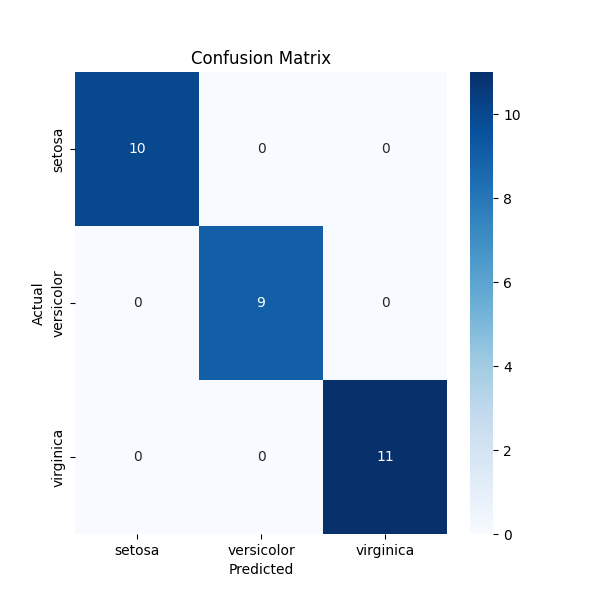
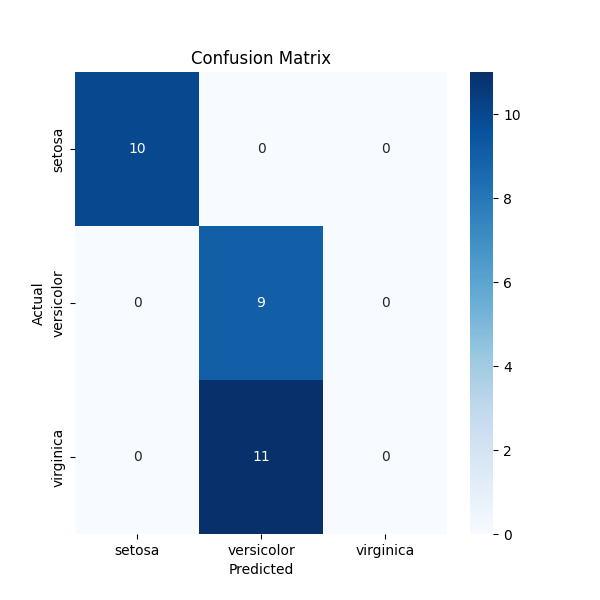
Changed permissions

Changed region(s): [[0.33, 0.63, 0.75, 0.9]]

diff --git a/MLOPS codes for different Libraries/MLFlow/MLFLOW_DAGSHUB.py b/MLOPS codes for different Libraries/MLFlow/MLFLOW_DAGSHUB.py
@@ -58,7 +58,7 @@ with mlflow.start_run():
 
     mlflow.log_artifact(__file__)
 
-    mlflow.sklearn.log_model(dt, "decision tree")
+    mlflow.sklearn.log_model(dt, "decision tree", skops_trusted_types=["sklearn.tree._tree.Tree"])
 
     mlflow.set_tag('author','nitish')
     mlflow.set_tag('model','decision tree')
